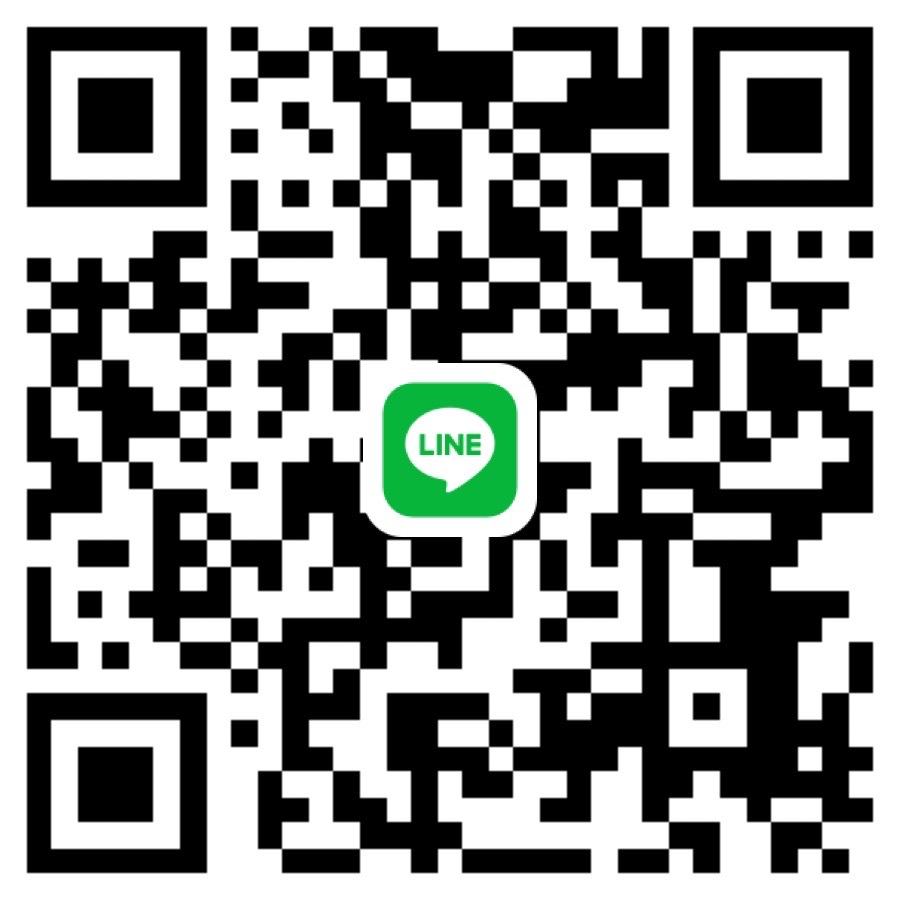
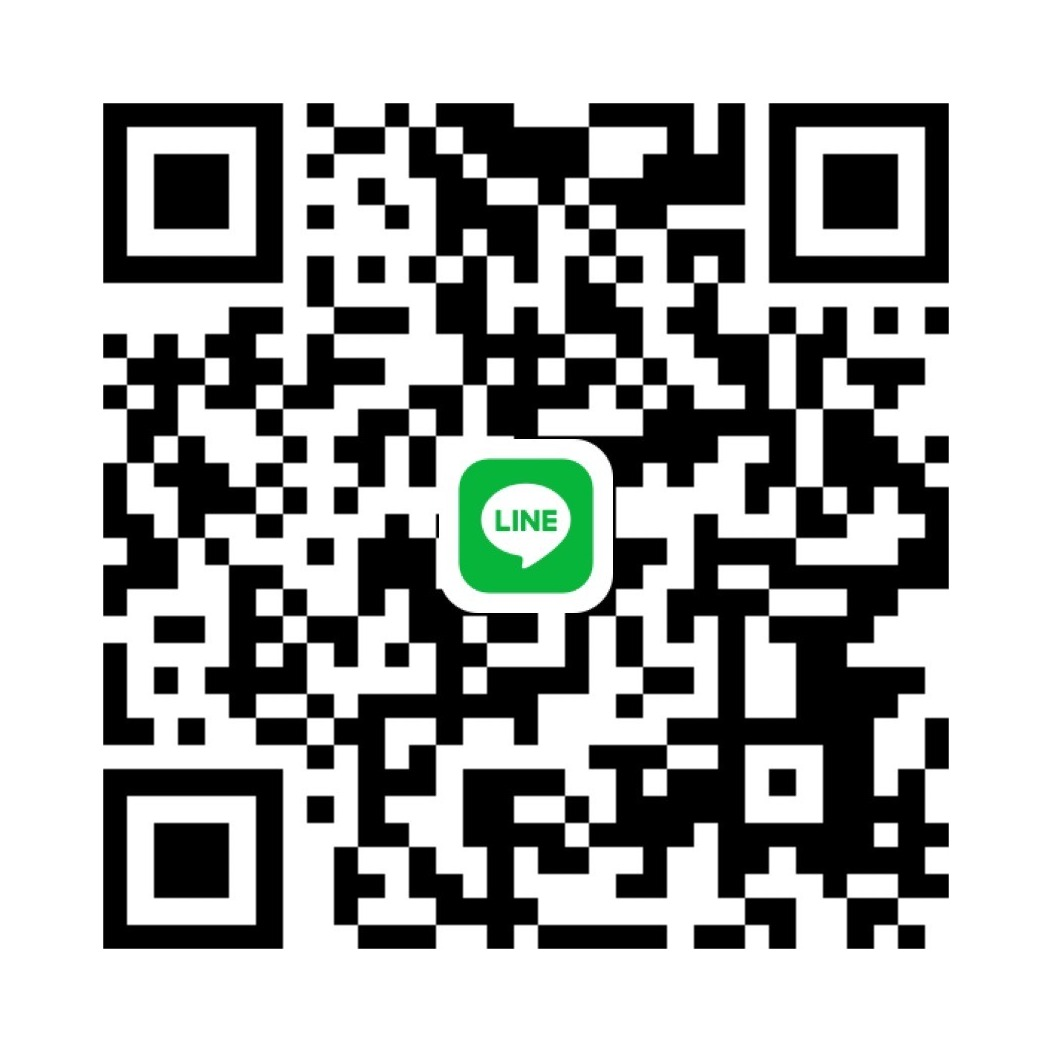
Give the LINE QR the quiet zone its corners were losing
The QR arrived with about one module of white around it, where the
specification asks for four. At the size it renders — 130px wide, 100px
on a narrow phone — that margin is under 4px, and the 9px border-radius
on the image cut straight through the three corner finder patterns. That
is the clipping you see on the page.

The image is rebuilt with four modules of white on every side: the
pattern is copied at its native resolution onto a larger white canvas
rather than resampled, so the module edges stay sharp. 900x900 becomes
1052x1052, and index.html's width/height follow.

The radius comes off the image. The rounded look belongs to the white
frame around it, which now only ever cuts into margin.

Honest about what was measured: OpenCV decoded the original at full size
and at both display sizes, with and without the radius, so this was not
a code that could not be read. What was wrong is that the corners were
visibly chopped and the margin was a quarter of what the specification
asks for — robustness in bad light or at an angle, not a hard failure.
The rebuilt image decodes to the same LINE URL.

Two tests added (33 -> 35): the QR image must carry no border-radius, and
index.html's declared dimensions must match the actual JPEG, read by
parsing its SOF marker.

Claude-Session: https://claude.ai/code/session_01D6NrQed2F9j1fPmfyMb73J

diff --git a/card/styles.css b/card/styles.css
@@ -86,7 +86,9 @@ h1 span { display: block; margin-top: 7px; font-size: .55em; font-weight: 500; l
 .line-copy > p:not(.line-kicker) { margin: 8px 0 14px; color: var(--muted); font-size: 13px; line-height: 1.55; }
 .line-button { display: inline-block; padding: 11px 14px; color: white; border-radius: 11px; background: #06c755; text-decoration: none; font-size: 14px; font-weight: 800; box-shadow: 0 8px 18px rgba(6, 199, 85, .18); }
 .line-qr { display: block; padding: 6px; border-radius: 14px; background: white; box-shadow: 0 6px 18px rgba(16, 35, 61, .09); }
-.line-qr img { display: block; width: 100%; height: auto; border-radius: 9px; }
+/* 圖片本身不加圓角：QR 的角落是定位點，圓角會把它啃掉。
+   視覺上的圓角由外層白框 .line-qr 負責，只修到留白。 */
+.line-qr img { display: block; width: 100%; height: auto; }
 .memory { padding: 30px 24px 38px; }
 .section-heading { margin-bottom: 24px; }
 .step { margin: 0 0 7px; color: var(--blue); font-size: 12px; font-weight: 800; letter-spacing: .16em; }

diff --git a/card/index.html b/card/index.html
@@ -73,7 +73,7 @@
       <a class="line-button" id="line-button" href="https://line.me/ti/p/4d4tXQMUUY" target="_blank" rel="noreferrer">開啟 LINE 加好友</a>
     </div>
     <a class="line-qr" id="line-qr-link" href="https://line.me/ti/p/4d4tXQMUUY" target="_blank" rel="noreferrer" aria-label="開啟 LINE 加入 Lucas Lu 為好友">
-      <img src="line-qr.jpg" alt="Lucas Lu 的 LINE 好友 QR Code" width="900" height="900">
+      <img src="line-qr.jpg" alt="Lucas Lu 的 LINE 好友 QR Code" width="1052" height="1052">
     </a>
   </section>
 

diff --git a/card/README.md b/card/README.md
@@ -120,6 +120,23 @@ writeFileSync('card/Lucas-Lu.vcf', buildVCard({
 WebP（quality 82）與 JPEG（quality 88）→ 覆蓋 `card/` 下的四個檔 →
 更新 `printed` → `npm test`。
 
+## 更換 LINE QR Code 時
+
+`line-qr.jpg` 本身要帶**至少 4 個模組的白色留白**（quiet zone），這是 QR 規範的要求。
+LINE App 匯出的圖通常只留約 1 個模組，直接拿來用會出事：
+
+- 顯示尺寸只有 100–130px，1 個模組換算後不到 4px
+- 任何加在圖片上的 `border-radius` 都會直接啃掉三個角的定位點（2026-09-22 就是這樣被切掉的）
+
+做法：量出模組大小（定位點的黑色方塊寬 = 7 模組），把圖案原樣貼到一張白底畫布上，
+四邊各留 4 個模組。**不要重新取樣圖案本身**，會讓模組邊緣糊掉。
+
+換完後：更新 `index.html` 裡 `<img src="line-qr.jpg">` 的 `width`/`height`（`npm test` 會擋），
+並確認解碼結果仍是正確的 LINE 網址。
+
+`.line-qr img` **不得加 `border-radius`**——視覺上的圓角由外層白框負責，只修到留白。
+測試會擋下重新加上去的情況。
+
 ## 已知限制：複姓
 
 `vcard.js` 以「中文姓名第一個字為姓」拆分 vCard 的 `N` 欄位。
